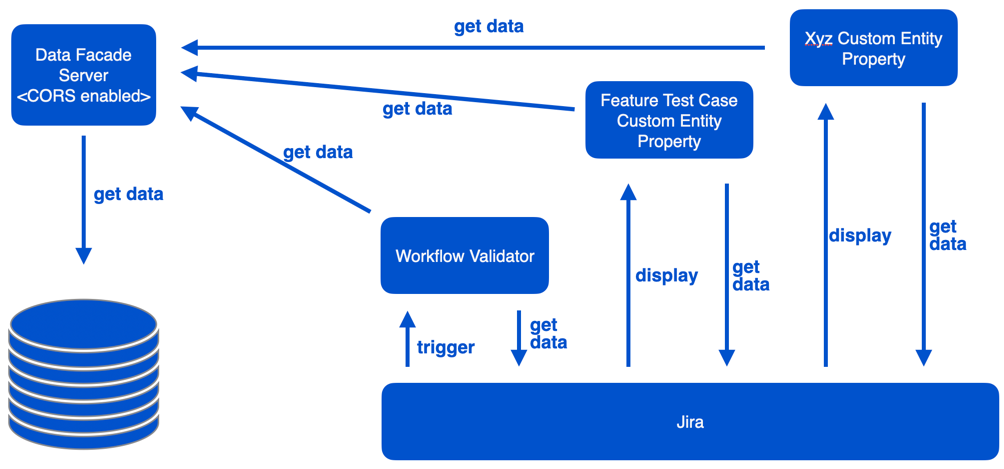
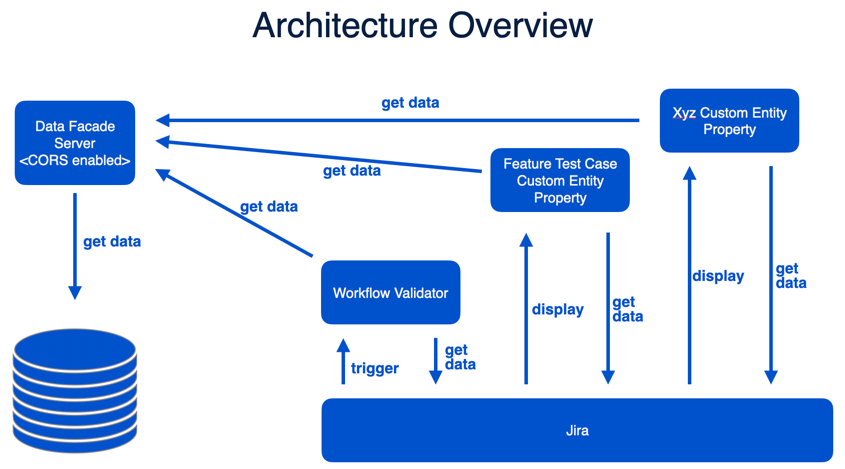
Added architectural diagrams to the README

Changed region(s): [[0.0, 0.0, 1.0, 1.0], [0.2154, 0.3881, 0.2462, 0.4179]]

diff --git a/README.md b/README.md
@@ -14,7 +14,11 @@ The app must prevent CAP transitions from "In Progress" to "Resolved" if the cur
 
 ## Architecture
 
-See ![images/architecture.png](images/architecture.png)
+![images/architecture.png](images/architecture.png)
+
+
+![images/sequence-sharing-logic.png](images/sequence-sharing-logic.png)
+
 
 ## Configuration and assumptions
 
